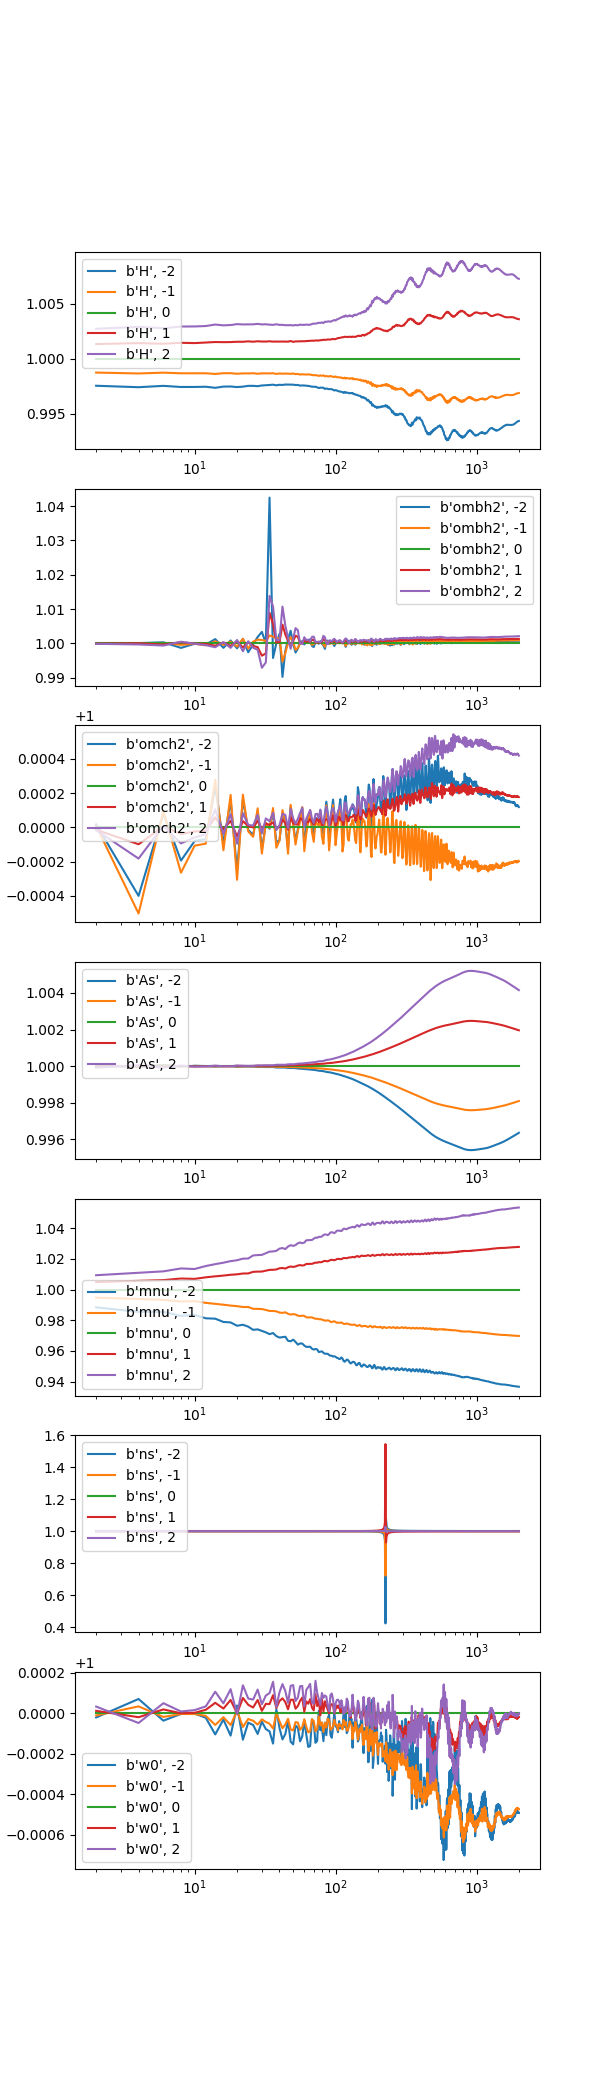
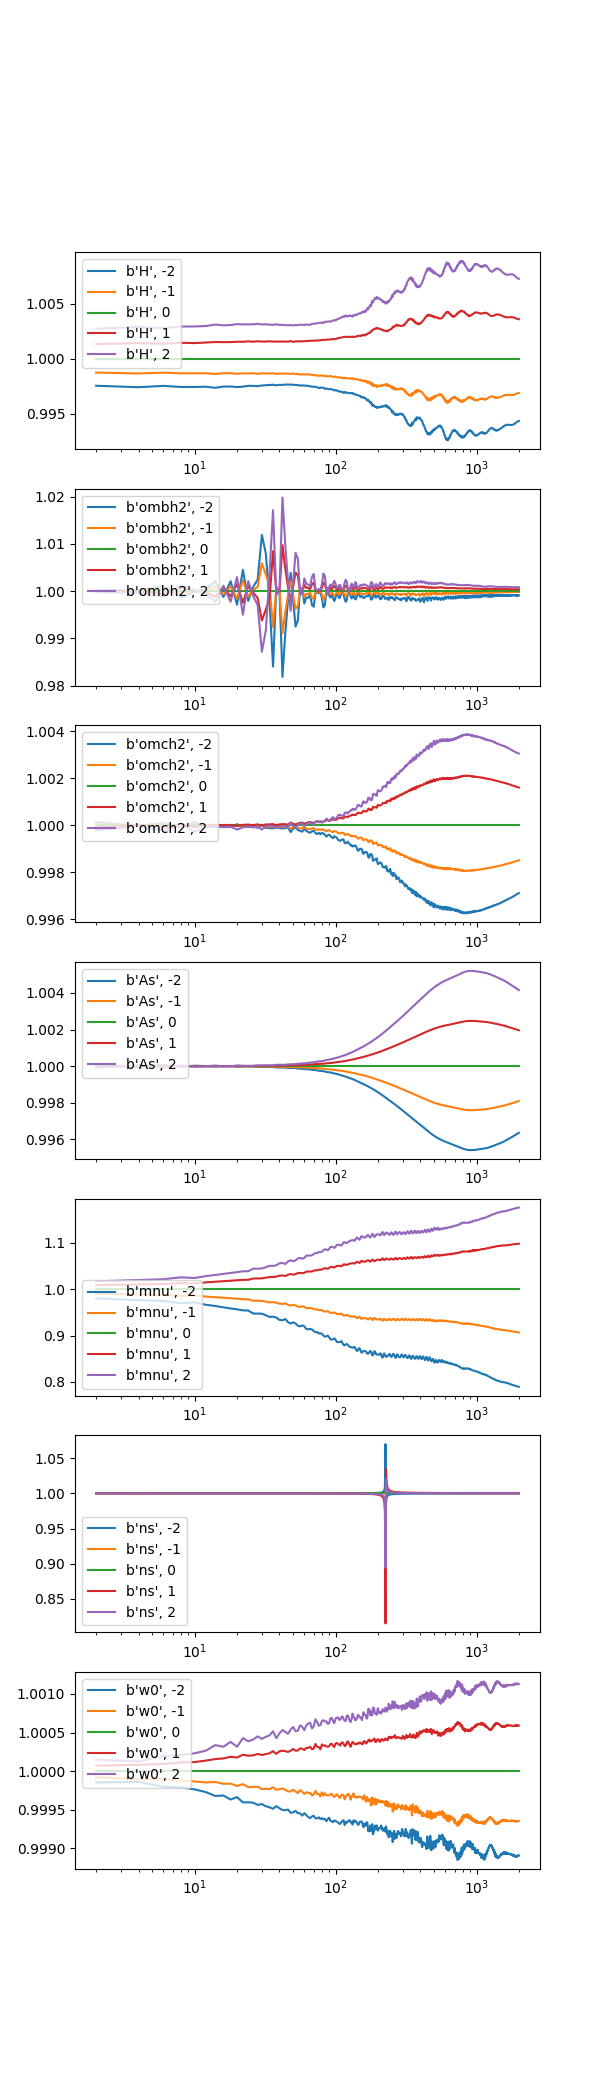
misc

diff --git a/code/data_exporter.py b/code/data_exporter.py
@@ -141,7 +141,7 @@ def data_export(folder_name, cosm_par, lps = True, a_create = True, b_create = T
             print(f'creating a for {folder_name}')
             # a (2d: k, z)
             with open(filepath + '/a', 'w') as file:
-                data = [[cosm_data.a(k, z) for z in zs_fine] for k in ks_log_fine]
+                data = [[cosm_data.a(k, z) for k in ks_log_fine] for z in zs_fine]
                 for row in data:
                     file.write(' '.join(map(str, row)) + '\n')
             print(f'a created to {folder_name}')
@@ -150,7 +150,7 @@ def data_export(folder_name, cosm_par, lps = True, a_create = True, b_create = T
             print(f'creating b for {folder_name}')
             # b (2d: k, z)
             with open(filepath + '/b', 'w') as file:
-                data = [[cosm_data.b(k, z) for z in zs_fine] for k in ks_log_fine]
+                data = [[cosm_data.b(k, z) for k in ks_log_fine] for z in zs_fine]
                 for row in data:
                     file.write(' '.join(map(str, row)) + '\n')
             print(f'b created to {folder_name}')
@@ -159,7 +159,7 @@ def data_export(folder_name, cosm_par, lps = True, a_create = True, b_create = T
             print(f'creating c for {folder_name}')
             # c (2d: k, z)
             with open(filepath + '/c', 'w') as file:
-                data = [[cosm_data.c(k, z) for z in zs_fine] for k in ks_log_fine]
+                data = [[cosm_data.c(k, z) for k in ks_log_fine] for z in zs_fine]
                 for row in data:
                     file.write(' '.join(map(str, row)) + '\n')
             print(f'c created to {folder_name}')

diff --git a/code/data_exporter_new.py b/code/data_exporter_new.py
@@ -113,17 +113,17 @@ par_names = ('H', 'ombh2', 'omch2', 'ns', 'As', 'mnu', 'w0')
 fiducial_cosm_par = np.array([67.4, 0.0223, 0.119, 0.965, 2.13e-9, 0.06, -1])
 # based on values that toshiya told me about
 cosm_par_delta = np.array([fiducial_cosm_par[0] * 0.1,
-                           fiducial_cosm_par[1] * 0.1,
-                           fiducial_cosm_par[2] * 0.005,
-                           fiducial_cosm_par[3] * 0.005,
+                           fiducial_cosm_par[1] * 0.15,
+                           fiducial_cosm_par[2] * 0.05,
+                           fiducial_cosm_par[3] * 0.01,
                            fiducial_cosm_par[4] * 0.1,
-                           fiducial_cosm_par[5] * 0.1, # mnu h should probably be smaller
-                           0.03])
+                           fiducial_cosm_par[5] * 0.05, # mnu h should probably be smaller
+                           0.06])
 
 num_pars = len(par_names)
 
 # perturb the delta used to calculate derivative in order to test stability
-delta_delta_coeffs = [2, 1, -1, -2]
+delta_delta_coeffs = [2, 1, 0, -1, -2]
 
 def delta_delta_coeffs_to_str(coeff):
     if coeff == 2:
